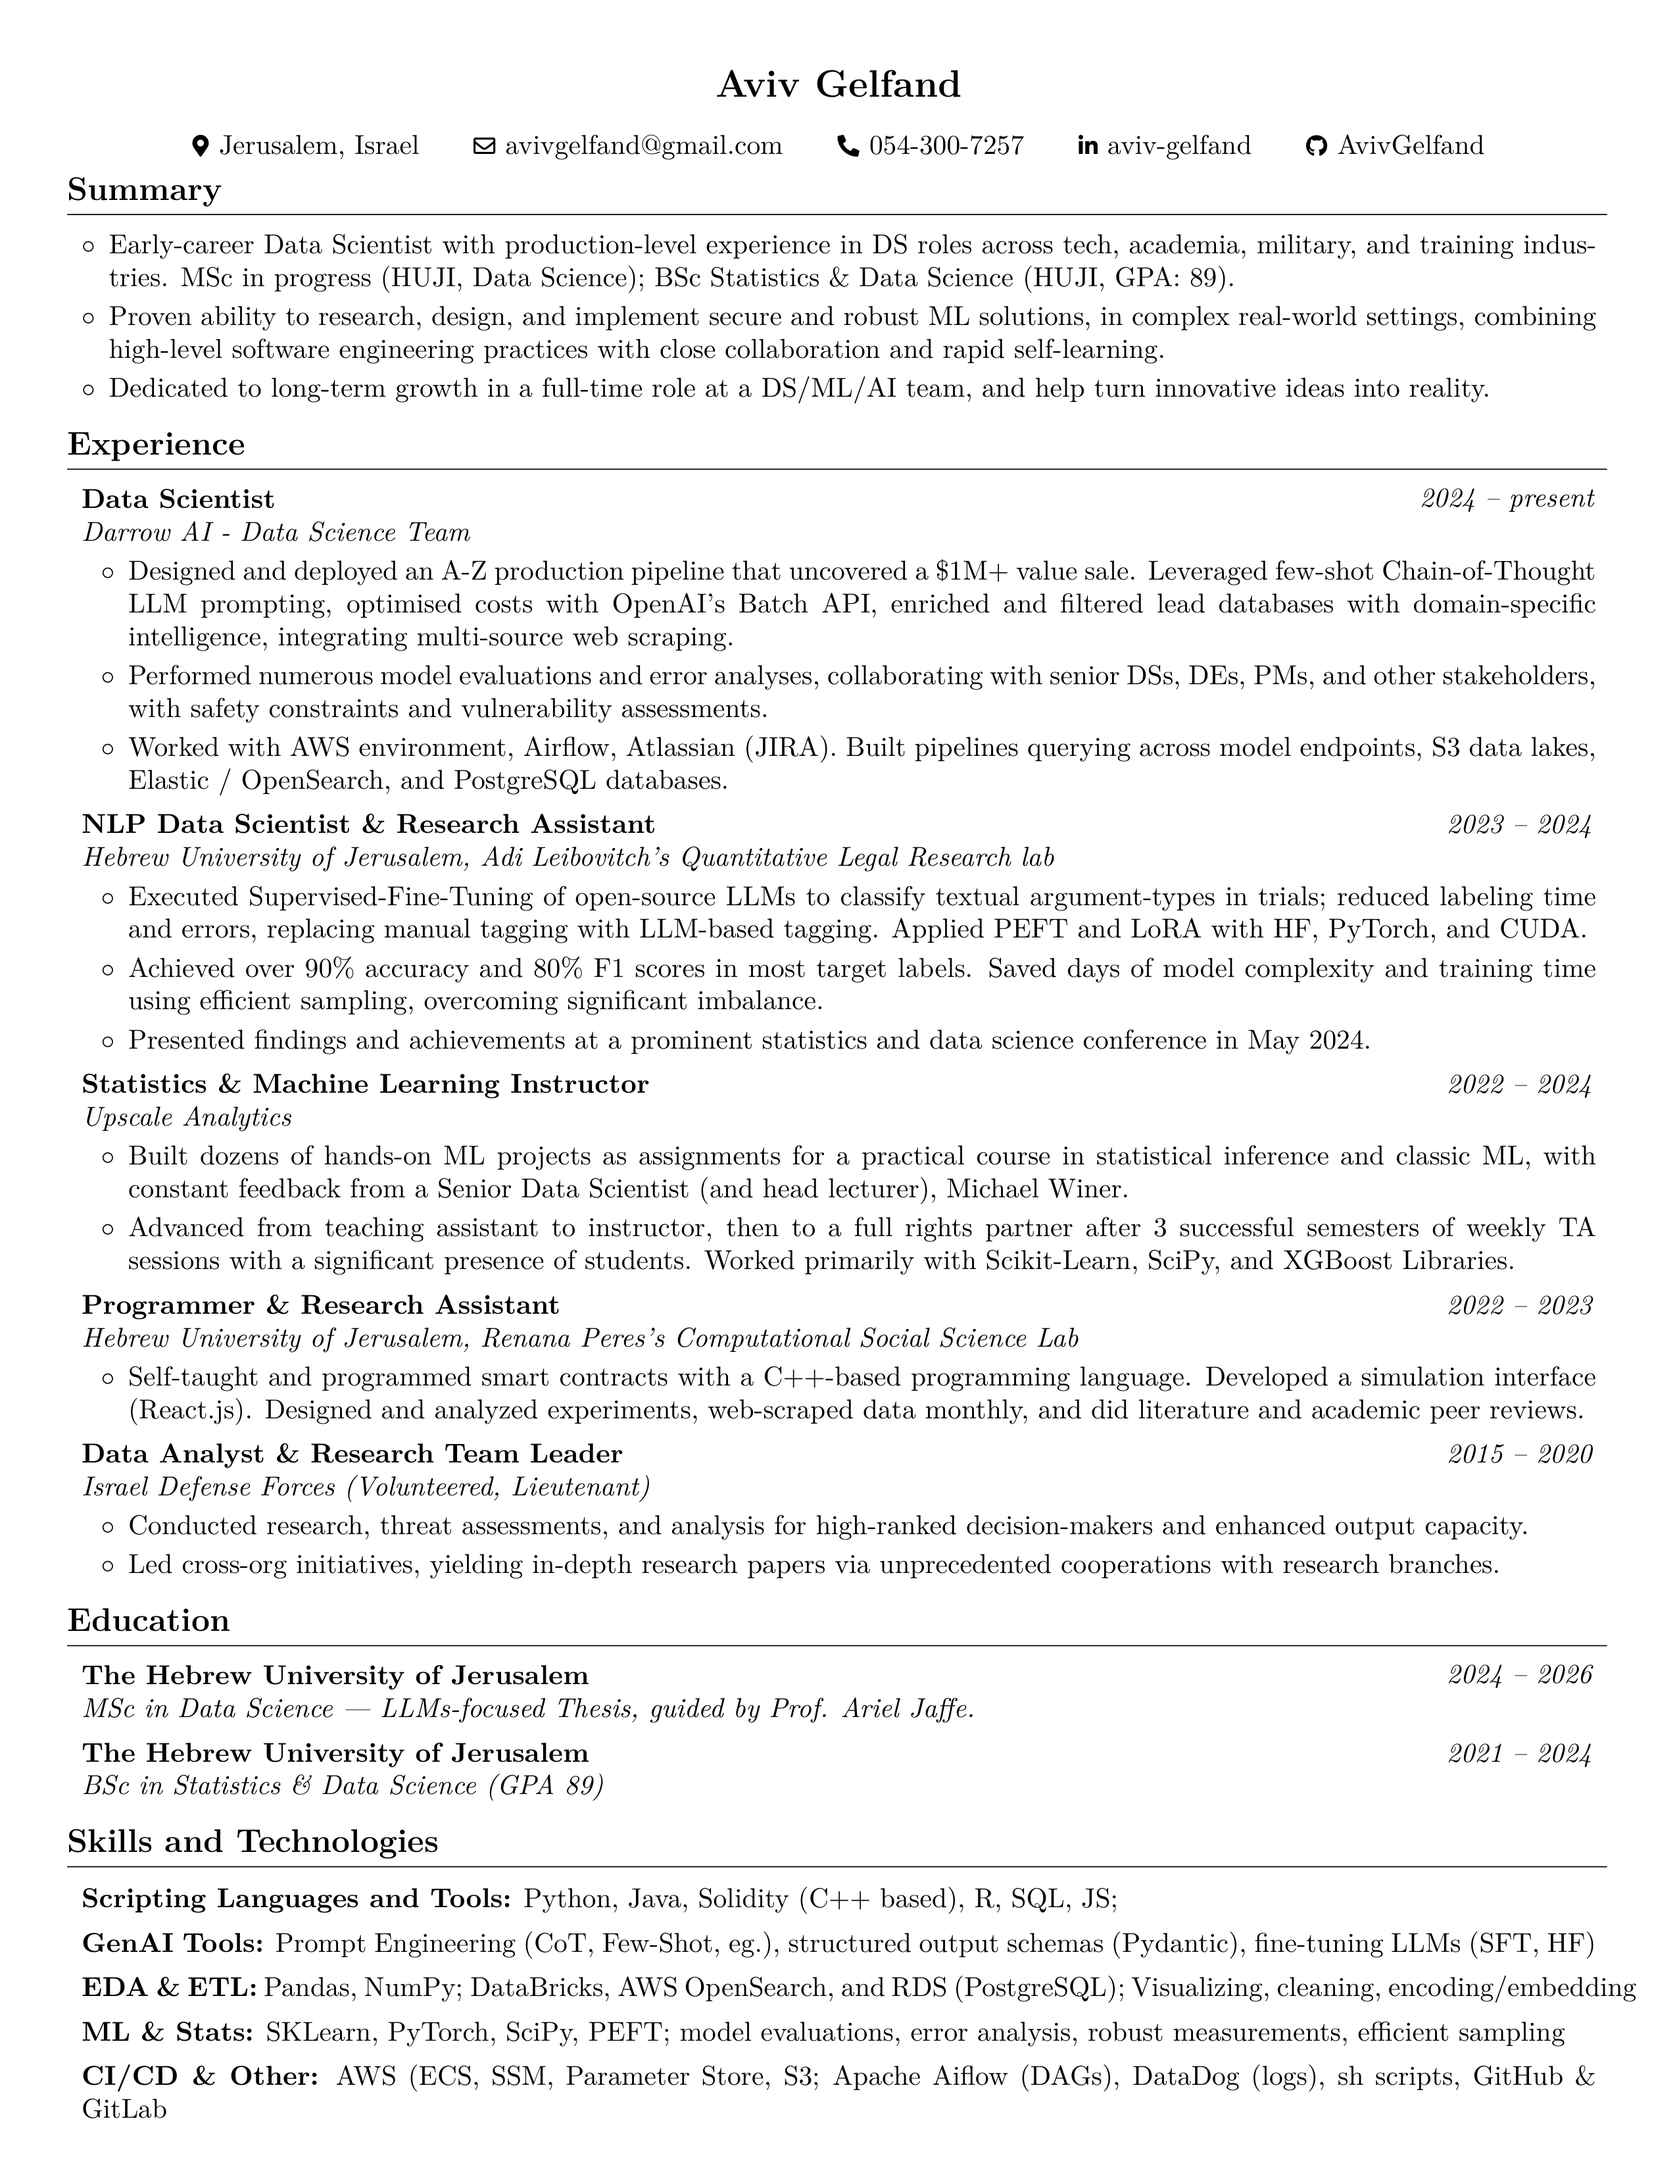
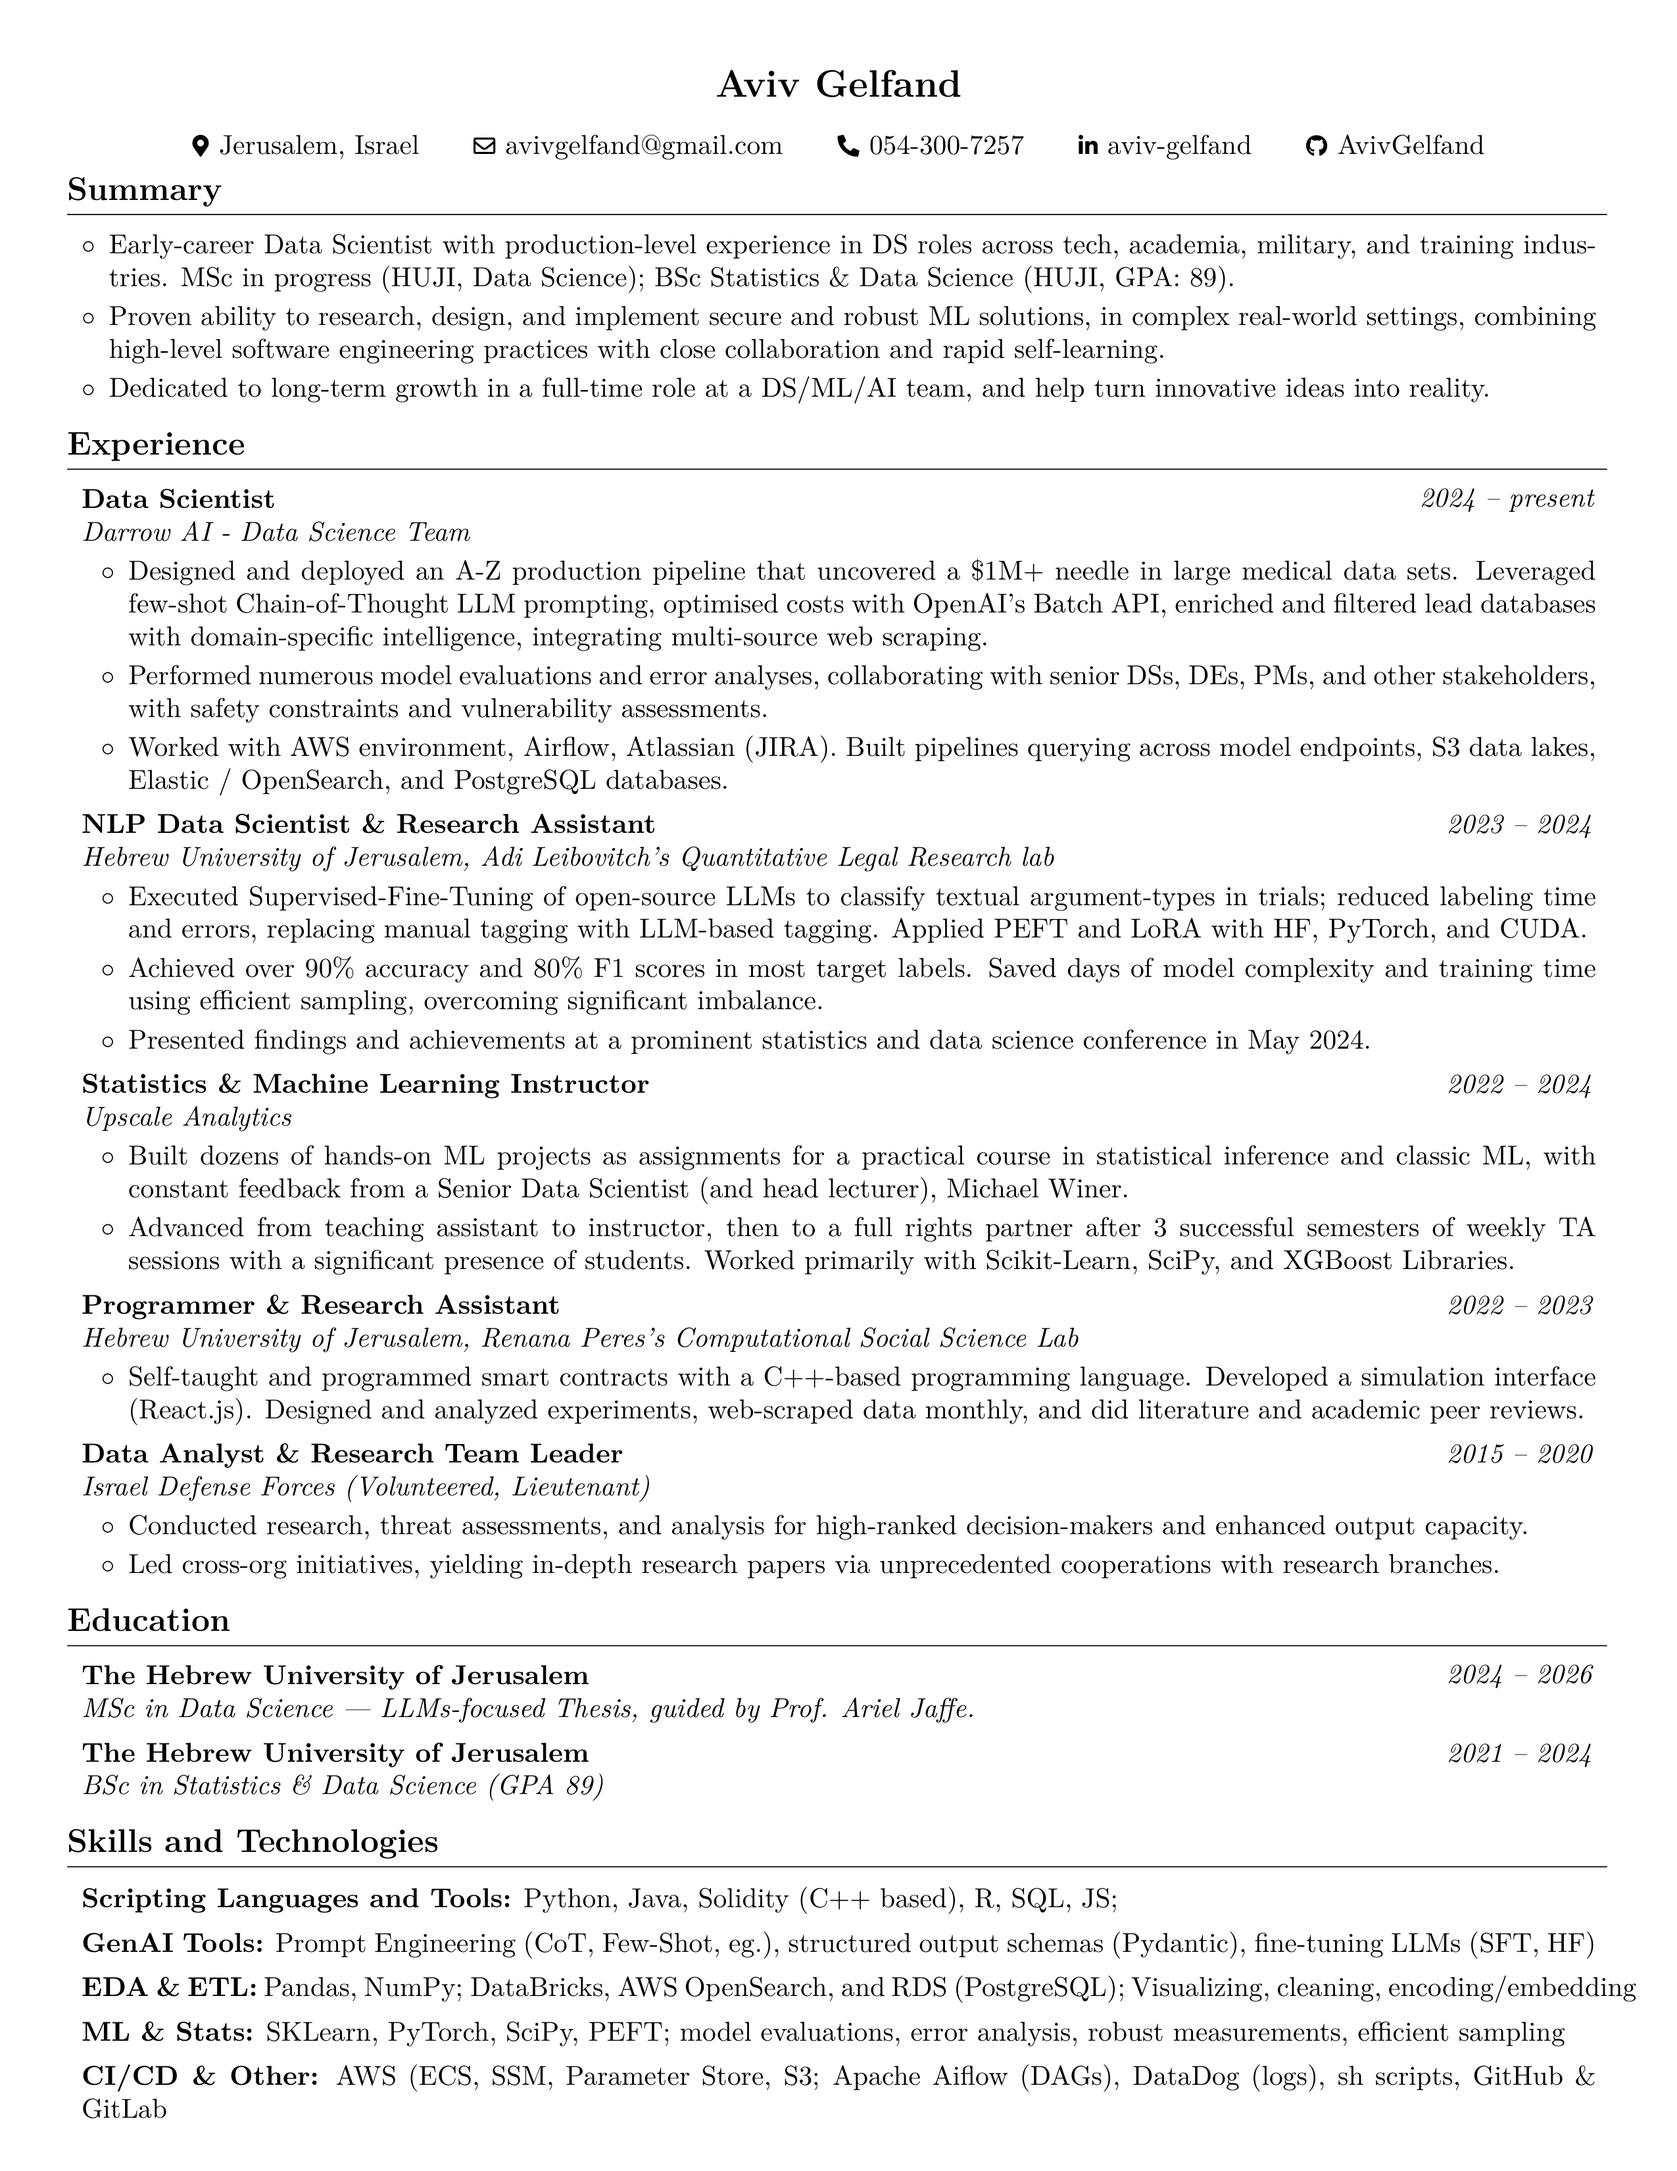
Render the latest CV

Changed region(s): [[0.0929, 0.2497, 0.9604, 0.3121]]

diff --git a/Aviv_Gelfand_CV.html b/Aviv_Gelfand_CV.html
@@ -50,7 +50,7 @@
         <h2>Darrow AI - Data Science Team, Data Scientist</h2>
         <ul>
         <li>2024 – present</li>
-        <li>Designed and deployed an A-Z production pipeline that uncovered a \$1M+ value sale. Leveraged few-shot Chain-of-Thought LLM prompting, optimised costs with OpenAI’s Batch API, enriched and filtered lead databases with domain-specific intelligence, integrating multi-source web scraping.</li>
+        <li>Designed and deployed an A-Z production pipeline that uncovered a \$1M+ needle in large medical data sets. Leveraged few-shot Chain-of-Thought LLM prompting, optimised costs with OpenAI’s Batch API, enriched and filtered lead databases with domain-specific intelligence, integrating multi-source web scraping.</li>
         <li>Performed numerous model evaluations and error analyses, collaborating with senior DSs, DEs, PMs, and other stakeholders, with safety constraints and vulnerability assessments.</li>
         <li>Worked with AWS environment, Airflow, Atlassian (JIRA). Built pipelines querying across model endpoints, S3 data lakes, Elastic / OpenSearch, and PostgreSQL databases.</li>
         </ul>

diff --git a/Aviv_Gelfand_CV.tex b/Aviv_Gelfand_CV.tex
@@ -208,7 +208,7 @@
         \vspace{0.08 cm}
         \begin{onecolentry}
             \begin{highlights}
-                \item Designed and deployed an A-Z production pipeline that uncovered a \$1M+ value sale. Leveraged few-shot Chain-of-Thought LLM prompting, optimised costs with OpenAI’s Batch API, enriched and filtered lead databases with domain-specific intelligence, integrating multi-source web scraping.
+                \item Designed and deployed an A-Z production pipeline that uncovered a \$1M+ needle in large medical data sets. Leveraged few-shot Chain-of-Thought LLM prompting, optimised costs with OpenAI’s Batch API, enriched and filtered lead databases with domain-specific intelligence, integrating multi-source web scraping.
                 \item Performed numerous model evaluations and error analyses, collaborating with senior DSs, DEs, PMs, and other stakeholders, with safety constraints and vulnerability assessments.
                 \item Worked with AWS environment, Airflow, Atlassian (JIRA). Built pipelines querying across model endpoints, S3 data lakes, Elastic / OpenSearch, and PostgreSQL databases.
             \end{highlights}

diff --git a/README.md b/README.md
@@ -19,7 +19,7 @@
 ## Darrow AI - Data Science Team, Data Scientist
 
 - 2024 – present
-- Designed and deployed an A-Z production pipeline that uncovered a \$1M+ value sale. Leveraged few-shot Chain-of-Thought LLM prompting, optimised costs with OpenAI’s Batch API, enriched and filtered lead databases with domain-specific intelligence, integrating multi-source web scraping.
+- Designed and deployed an A-Z production pipeline that uncovered a \$1M+ needle in large medical data sets. Leveraged few-shot Chain-of-Thought LLM prompting, optimised costs with OpenAI’s Batch API, enriched and filtered lead databases with domain-specific intelligence, integrating multi-source web scraping.
 - Performed numerous model evaluations and error analyses, collaborating with senior DSs, DEs, PMs, and other stakeholders, with safety constraints and vulnerability assessments.
 - Worked with AWS environment, Airflow, Atlassian (JIRA). Built pipelines querying across model endpoints, S3 data lakes, Elastic / OpenSearch, and PostgreSQL databases.
 
